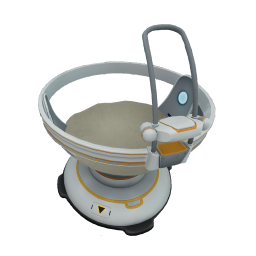
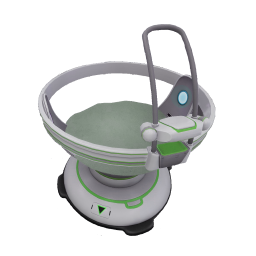
MCU_PowerInfo - Continued pruning of unneeded code - Updating more art assets

diff --git a/MoreCyclopsUpgrades/Managers/PowerManager.cs b/MoreCyclopsUpgrades/Managers/PowerManager.cs
@@ -2,6 +2,7 @@
 {
     using System.Collections.Generic;
     using Caching;
+    using Common;
     using Modules;
     using MoreCyclopsUpgrades.Monobehaviors;
     using SaveData;
@@ -117,41 +118,10 @@
 
                 if (cyBioReactor.ParentCyclops == null)
                 {
+                    QuickLogger.Debug("CyBioReactorMono synced externally");
                     // This is a workaround to get a reference to the Cyclops into the AuxUpgradeConsole
                     cyBioReactor.ConnectToCyclops(this.Cyclops);
                 }
-            }
-        }
-
-        internal void SyncBioReactors()
-        {
-            TempCache.Clear();
-
-            CyBioReactorMono[] cyBioReactors = this.Cyclops.GetAllComponentsInChildren<CyBioReactorMono>();
-
-            foreach (CyBioReactorMono cyBioReactor in cyBioReactors)
-            {
-                if (TempCache.Contains(cyBioReactor))
-                    continue; // This is a workaround because of the object references being returned twice in this array.
-
-                TempCache.Add(cyBioReactor);
-
-                if (cyBioReactor.ParentCyclops == null)
-                {
-                    // This is a workaround to get a reference to the Cyclops into the AuxUpgradeConsole
-                    cyBioReactor.ConnectToCyclops(this.Cyclops);
-                }
-            }
-
-            if (TempCache.Count != this.CyBioReactors.Count)
-            {
-                this.CyBioReactors.Clear();
-                this.CyBioReactors.AddRange(TempCache);
-            }
-
-            foreach (CyBioReactorMono reactor in this.CyBioReactors)
-            {
-                reactor.UpdateBoosterCount(this.UpgradeManager.BioBoosterCount);
             }
         }
 
@@ -263,7 +233,7 @@
             if (this.UpgradeManager.HasSolarModules) // Handle solar power
             {
                 float availableSolarEnergy = GetSolarChargeAmount();
-                this.PowerIcons.Solar = availableSolarEnergy > 0f;
+                this.PowerIcons.Solar = availableSolarEnergy > MinimalPowerValue;
 
                 if (this.UpgradeManager.SolarModuleCount > 0 && this.PowerIcons.Solar)
                 {
@@ -297,7 +267,7 @@
             if (this.UpgradeManager.HasThermalModules) // Handle thermal power
             {
                 float availableThermalEnergy = GetThermalChargeAmount();
-                this.PowerIcons.Thermal = availableThermalEnergy > 0f;
+                this.PowerIcons.Thermal = availableThermalEnergy > MinimalPowerValue;
 
                 if (this.UpgradeManager.ThermalModuleCount > 0 && this.PowerIcons.Thermal)
                 {
@@ -371,6 +341,8 @@
             {
                 // Recycle surplus power back into the batteries that need it
                 lastBatteryToCharge.charge = Mathf.Min(lastBatteryToCharge.capacity, lastBatteryToCharge.charge + surplusPower);
+                this.PowerIcons.SolarBattery = false;
+                this.PowerIcons.ThermalBattery = false;
             }
         }
 
@@ -427,7 +399,7 @@
         /// </returns>
         private float ChargeFromModuleMk2(Battery batteryInSlot, float chargeAmount, float batteryDrainRate, ref float powerDeficit)
         {
-            if (Mathf.Approximately(chargeAmount, 0f))
+            if (Mathf.Approximately(powerDeficit, 0f))
             {
                 ChargeCyclopsFromBattery(batteryInSlot, batteryDrainRate, ref powerDeficit);
                 return 0f;

diff --git a/MoreCyclopsUpgrades/Managers/UpgradeManager.cs b/MoreCyclopsUpgrades/Managers/UpgradeManager.cs
@@ -138,39 +138,13 @@
 
                 if (auxConsole.ParentCyclops == null)
                 {
+                    QuickLogger.Debug("CyUpgradeConsoleMono synced externally");
                     // This is a workaround to get a reference to the Cyclops into the AuxUpgradeConsole
                     auxConsole.ConnectToCyclops(this.Cyclops);
                 }
             }
 
             return true;
-        }
-
-        internal void SyncUpgradeConsoles()
-        {
-            TempCache.Clear();
-
-            CyUpgradeConsoleMono[] auxUpgradeConsoles = this.Cyclops.GetAllComponentsInChildren<CyUpgradeConsoleMono>();
-
-            foreach (CyUpgradeConsoleMono auxConsole in auxUpgradeConsoles)
-            {
-                if (TempCache.Contains(auxConsole))
-                    continue; // This is a workaround because of the object references being returned twice in this array.
-
-                TempCache.Add(auxConsole);
-
-                if (auxConsole.ParentCyclops == null)
-                {
-                    // This is a workaround to get a reference to the Cyclops into the AuxUpgradeConsole
-                    auxConsole.ConnectToCyclops(this.Cyclops);
-                }
-            }
-
-            if (TempCache.Count != this.AuxUpgradeConsoles.Count)
-            {
-                this.AuxUpgradeConsoles.Clear();
-                this.AuxUpgradeConsoles.AddRange(TempCache);
-            }
         }
 
         private void ClearAllUpgrades()

diff --git a/MoreCyclopsUpgrades/Monobehaviors/CyBioReactorMono.cs b/MoreCyclopsUpgrades/Monobehaviors/CyBioReactorMono.cs
@@ -434,6 +434,7 @@
 
             this.ParentCyclops = parentCyclops;
             this.transform.SetParent(parentCyclops.transform);
+            
         }
 
         public void ConnectToInventory(Dictionary<InventoryItem, uGUI_ItemIcon> lookup)
